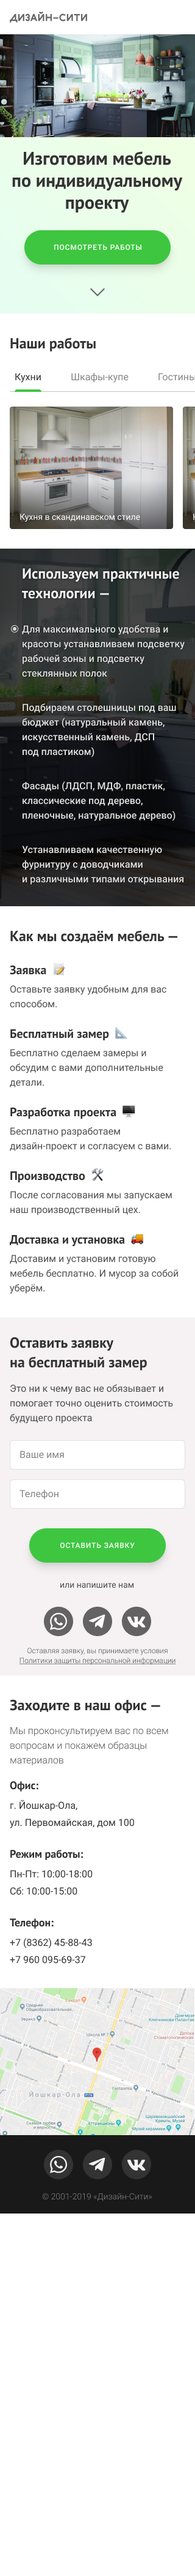
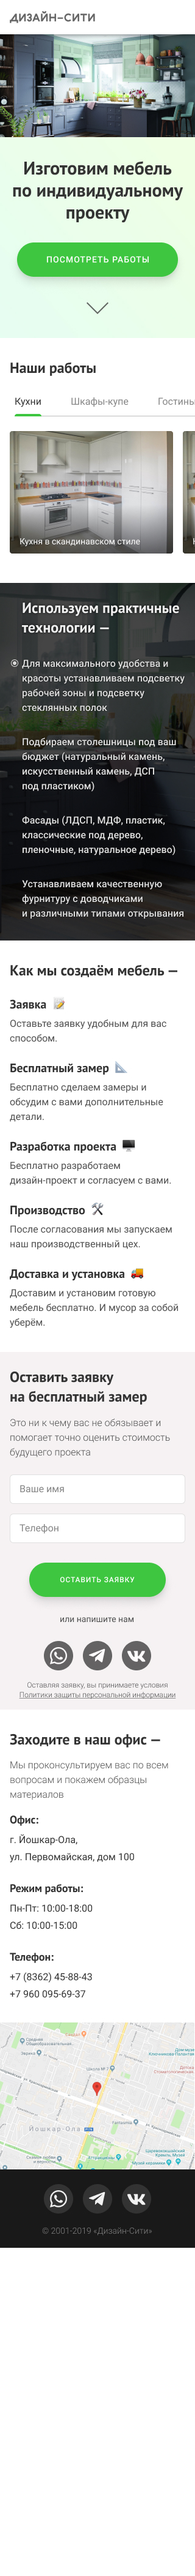
upd

diff --git a/css/style.css b/css/style.css
@@ -734,13 +734,12 @@ input[type="radio"].visually-hidden {
 
 @media (max-width: 767px) {
   .portfolio {
-    min-height: 448px;
     box-sizing: border-box;
+    margin-bottom: 48px;
   }
 
   .portfolio__title {
     padding-top: 16px;
-    margin-bottom: 16px;
   }
 
   .portfolio__text {
@@ -980,7 +979,7 @@ input[type="radio"].visually-hidden {
   }
 }
 .process {
-  padding-bottom: 52px;
+  padding-bottom: 36px;
 }
 
 .process__item-number {
@@ -1264,7 +1263,7 @@ input[type="radio"].visually-hidden {
   }
 }
 .contacts {
-  padding-top: 40px;
+  padding-top: 32px;
 }
 .contacts iframe {
   margin-top: 8px;
@@ -1272,7 +1271,7 @@ input[type="radio"].visually-hidden {
 
 .contacts__appeal {
   margin: 0;
-  margin-bottom: 24px;
+  margin-bottom: 16px;
   font-weight: 300;
 }
 
@@ -1478,8 +1477,7 @@ input[type="radio"].visually-hidden {
 
 .technologies {
   position: relative;
-  margin-top: -64px;
-  margin-bottom: 56px;
+  margin-bottom: 32px;
   padding-top: 24px;
   padding-bottom: 32px;
   box-sizing: border-box;
@@ -1501,8 +1499,7 @@ input[type="radio"].visually-hidden {
 
 .technologies__title {
   position: relative;
-  margin-left: 36px;
-  margin-right: 24px;
+  margin-left: 12px;
   margin-bottom: 32px;
   color: #ffffff;
   text-shadow: 0px 0px 6px rgba(0, 0, 0, 0.5);
@@ -1557,6 +1554,7 @@ input[type="radio"].visually-hidden {
     position: relative;
     height: 100%;
     margin: 0 auto;
+    margin-top: -72px;
     width: 720px;
   }
 
@@ -1572,25 +1570,25 @@ input[type="radio"].visually-hidden {
   .technologies__text--1 {
     width: 312px;
     height: 72px;
-    top: 21.7%;
+    top: 34.8%;
     left: 3.1%;
   }
   .technologies__text--2 {
     width: 320px;
     height: 72px;
-    top: 21.7%;
+    top: 34.8%;
     right: 0;
   }
   .technologies__text--3 {
     width: 256px;
     height: 72px;
-    top: 57.5%;
+    top: 69.6%;
     left: 10.4%;
   }
   .technologies__text--4 {
     width: 272px;
     height: 72px;
-    top: 57.5%;
+    top: 69.6%;
     right: 0;
   }
 
@@ -1635,8 +1633,22 @@ input[type="radio"].visually-hidden {
     background: linear-gradient(90deg, rgba(85, 242, 167, 0.15) 0%, rgba(148, 255, 64, 0.15) 100%);
   }
 
+  .technologies__image {
+    width: 1120px;
+  }
+
   .technologies__title {
     padding-left: 120px;
+  }
+
+  .technologies__text--1 {
+    left: 17.9%;
+  }
+  .technologies__text--2, .technologies__text--4 {
+    right: 17.9%;
+  }
+  .technologies__text--3 {
+    left: 21.4%;
   }
 }
 .modal {

diff --git a/sass/style.scss b/sass/style.scss
@@ -895,14 +895,12 @@ input[type="radio"].visually-hidden {
 
 @media (max-width: $mobile-width-only) {
   .portfolio {
-    // временно
-    min-height: 448px;
     box-sizing: border-box;
+    margin-bottom: 48px;
   }
 
   .portfolio__title {
     padding-top: 16px;
-    margin-bottom: 16px;
   }
 
   .portfolio__text {
@@ -1185,7 +1183,7 @@ input[type="radio"].visually-hidden {
 // process
 
 .process {
-  padding-bottom: 52px;
+  padding-bottom: 36px;
 }
 
 .process__item-number {
@@ -1486,7 +1484,7 @@ input[type="radio"].visually-hidden {
 // contacts
 
 .contacts {
-  padding-top: 40px;
+  padding-top: 32px;
 
   & iframe {
     margin-top: 8px;
@@ -1495,7 +1493,7 @@ input[type="radio"].visually-hidden {
 
 .contacts__appeal {
   margin: 0;
-  margin-bottom: 24px;
+  margin-bottom: 16px;
   font-weight: 300;
 }
 
@@ -1719,8 +1717,7 @@ input[type="radio"].visually-hidden {
 
 .technologies {
   position: relative;
-  margin-top: -64px;
-  margin-bottom: 56px;
+  margin-bottom: 32px;
   padding-top: 24px;
   padding-bottom: 32px;
   // height: 584px;
@@ -1744,8 +1741,7 @@ input[type="radio"].visually-hidden {
 
 .technologies__title {
   position: relative;
-  margin-left: 36px;
-  margin-right: 24px;
+  margin-left: 12px;
   margin-bottom: 32px;
   color: #ffffff;
   text-shadow: 0px 0px 6px rgba(0, 0, 0, 0.5);
@@ -1803,6 +1799,7 @@ input[type="radio"].visually-hidden {
     position: relative;
     height: 100%;
     margin: 0 auto;
+    margin-top: -72px;
     width: 720px;
   }
 
@@ -1818,28 +1815,28 @@ input[type="radio"].visually-hidden {
     &--1 {
       width: 312px;
       height: 72px;
-      top: 21.7%;
+      top: 34.8%;
       left: 3.1%;
     }
 
     &--2 {
       width: 320px;
       height: 72px;
-      top: 21.7%;
+      top: 34.8%;
       right: 0;
     }
 
     &--3 {
       width: 256px;
       height: 72px;
-      top: 57.5%;
+      top: 69.6%;
       left: 10.4%;
     }
 
     &--4 {
       width: 272px;
       height: 72px;
-      top: 57.5%;
+      top: 69.6%;
       right: 0;
     }
   }
@@ -1891,8 +1888,27 @@ input[type="radio"].visually-hidden {
     }
   }
 
+  .technologies__image {
+    width: 1120px;
+  }
+
   .technologies__title {
     padding-left: 120px;
+  }
+
+  .technologies__text {
+
+    &--1 {
+      left: 17.9%;
+    }
+
+    &--2, &--4 {
+      right: 17.9%;
+    }
+
+    &--3 {
+      left: 21.4%;
+    }
   }
 }
 

diff --git a/js/script.js b/js/script.js
@@ -82,21 +82,22 @@ document.querySelector(".modal__overlay").addEventListener("click", function (ev
   document.querySelector(".modal").style.display = "none";
 })
 
-document.querySelector(".welcome__button--desktop").addEventListener("click", function (evt) {
-  evt.preventDefault();
-  document.querySelector("#portfolio").scrollIntoView();
-})
+// document.querySelector(".welcome__button--desktop").addEventListener("click", function (evt) {
+//   evt.preventDefault();
+//   document.querySelector("#portfolio").scrollIntoView();
+// })
+//
+// document.querySelector(".welcome__button--mobile").addEventListener("click", function (evt) {
+//   evt.preventDefault();
+//   document.querySelector("#portfolio").scrollIntoView();
+// })
 
-document.querySelector(".welcome__button--mobile").addEventListener("click", function (evt) {
-  evt.preventDefault();
-  document.querySelector("#portfolio").scrollIntoView();
-})
+const anchors = document.querySelectorAll('a[href*="#"]')
 
-function getCoords(portfolio) {
-  var box = portfolio.getBoundingClientRect();
-
-  return {
-    top: box.top + pageYOffset,
-    left: box.left + pageXOffset
-  };
+for (let anchor of anchors) {
+  anchor.addEventListener("click", function(evt) {
+    event.preventDefault();
+    const blockID = anchor.getAttribute("href");
+    document.querySelector("" + blockID).scrollIntoView();
+  })
 }

diff --git a/index.html b/index.html
@@ -65,8 +65,8 @@
         </div>
         <div class="welcome__col-1">
           <b class="welcome__intro">Изготовим мебель<br>по индивидуальному<br>проекту</b>
-          <a class="button welcome__button welcome__button--mobile" href="">Посмотреть работы</a>
-          <a class="button welcome__button welcome__button--desktop" href="">Посмотреть примеры работ</a>
+          <a class="button welcome__button welcome__button--mobile" href="#portfolio">Посмотреть работы</a>
+          <a class="button welcome__button welcome__button--desktop" href="#portfolio">Посмотреть примеры работ</a>
           <a class="welcome__arrow-button" href="#portfolio"></a>
         </div>
       </section>
